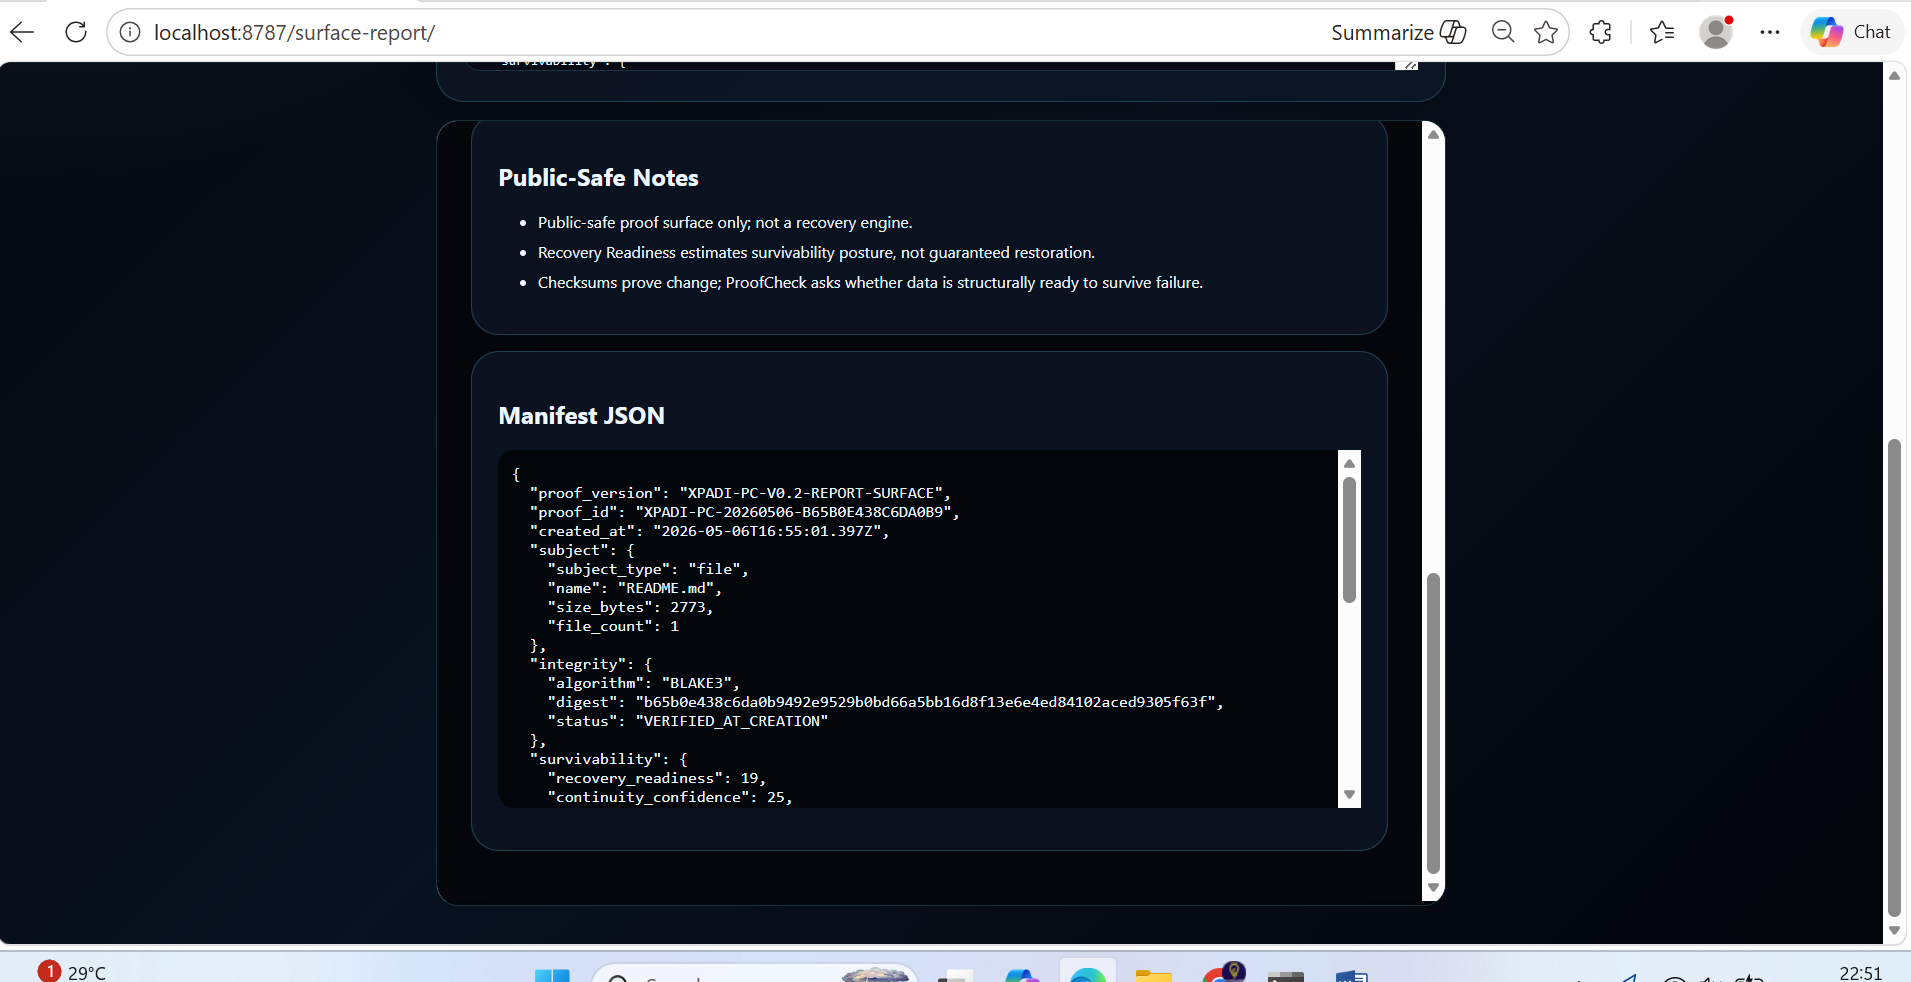
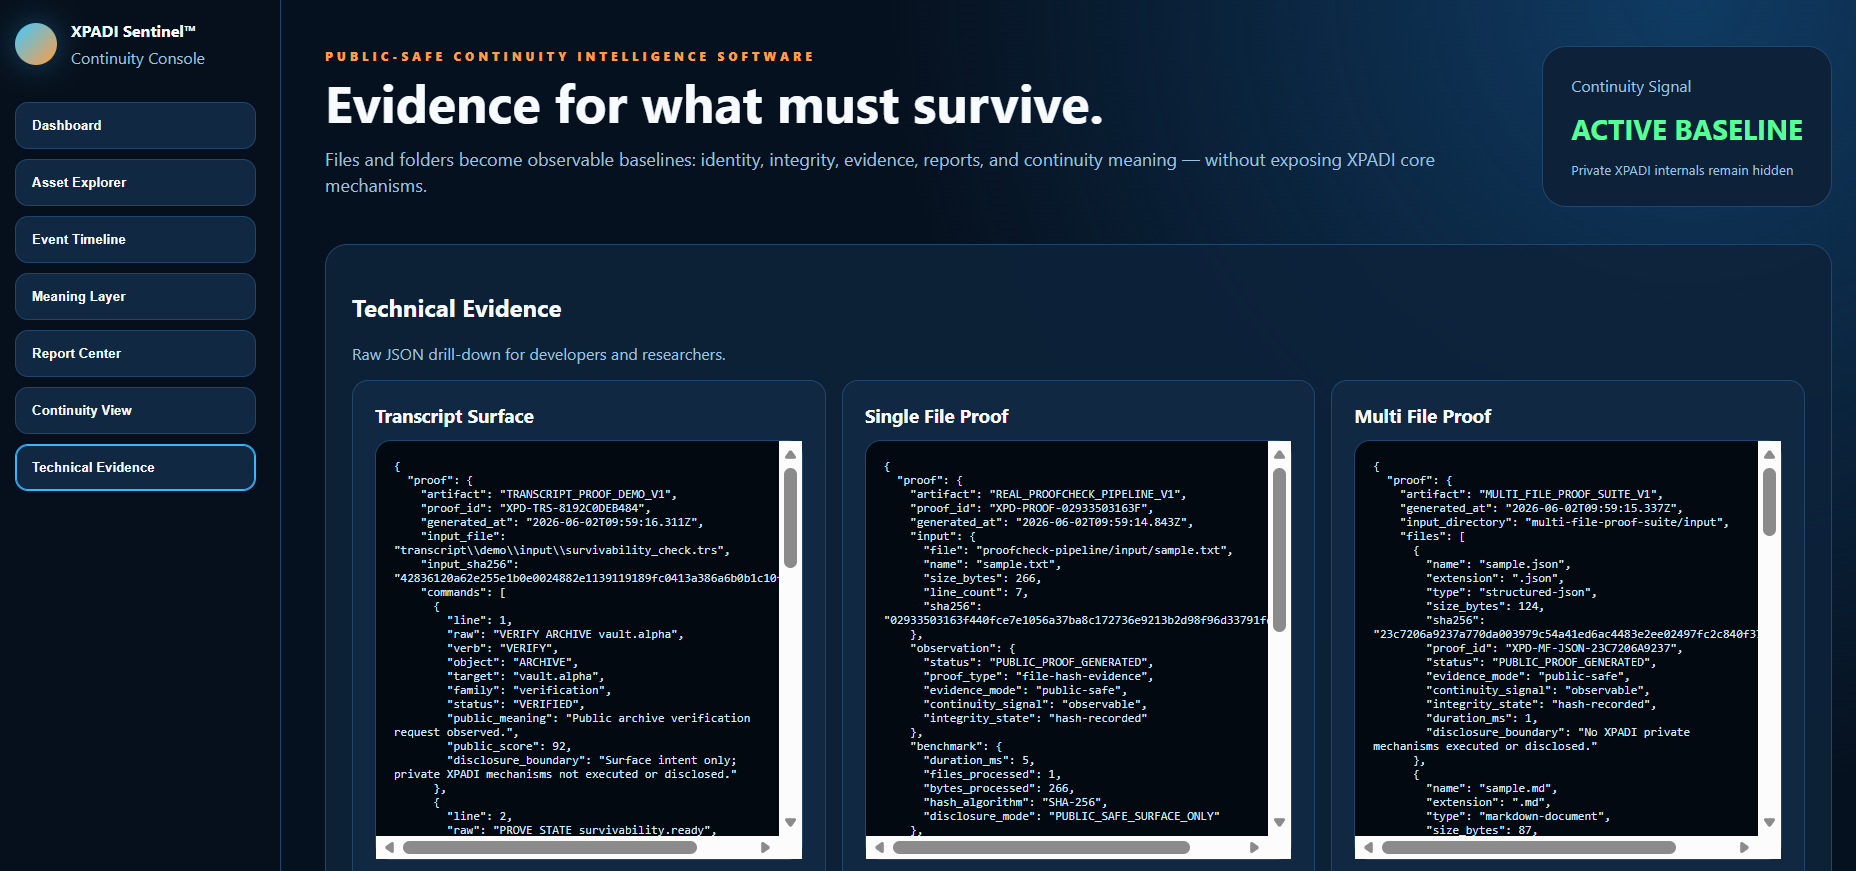
XPADI-ProofCheck v0.3 - Recovery Intelligence Surface + Sentinel Integration

diff --git a/web-demo/index.html b/web-demo/index.html
@@ -576,13 +576,7 @@ body::before{
   <div class="topbar">
     <div class="logo">XPADI ProofCheck™</div>
 
-    <div class="nav">
-      <a class="primary" href="./index.html">ProofCheck Demo</a>
-      <a href="../sentinel-studio/index.html">Sentinel Studio</a>
-      <a href="../proofcheck-console/index.html">Continuity Console</a>
-    </div>
-
-    <div class="mode">LOCAL_SAFE_ANALYSIS</div>
+        <div class="mode">LOCAL_SAFE_ANALYSIS</div>
   </div>
 
   <section class="hero" id="proofcheck">
@@ -591,7 +585,9 @@ body::before{
 
     <p class="sub">
       XPADI ProofCheck demonstrates a public-facing survivability check:
-      local proof, recovery-readiness posture, human meaning, and a bridge into Sentinel evidence.
+local proof, recovery-readiness posture, human meaning, and a bridge into Sentinel evidence.
+Sentinel Studio explains why a conclusion was reached.
+Continuity Console exposes the supporting evidence chain.
     </p>
 
     <div class="xpadi-chain">

diff --git a/README.md b/README.md
@@ -23,10 +23,8 @@
 </p>
 
 ---
-
 # 🚨 What Is XPADI ProofCheck™
-
-XPADI ProofCheck™ is a local-first survivability intelligence artifact.
+XPADI ProofCheck™ is a Recovery Intelligence and Survivability Proof surface that evaluates recovery posture before failure occurs.
 
 It explores a different question from traditional systems:
 
@@ -218,8 +216,10 @@ Operational continuity analysis:
 - failure exposure
 - survivability concentration
 - continuity confidence
-
 ---
+## Evidence Intelligence Layer
+
+![Evidence Dashboard](assets/screenshots/06-evidence-dashboard.png)
 
 ## 🔒 Proof Layer + Public-Safe Surface
 
@@ -474,6 +474,17 @@ Storage → Recovery Readiness
 That is the question behind XPADI ProofCheck™.
 
 ---
+# Explore XPADI
+
+ProofCheck is part of a larger survivability and continuity ecosystem.
+
+| Surface | Purpose |
+|----------|----------|
+| XPADI ProofCheck™ | Public Survivability Analysis |
+| XPADI Sentinel Studio™ | Decision Intelligence Surface |
+| XPADI Continuity Console™ | Evidence & Continuity Exploration |
+---
+![XPADI Ecosystem](assets/screenshots/07-Proofcheck_eco.png)
 
 # 👤 Author
 
